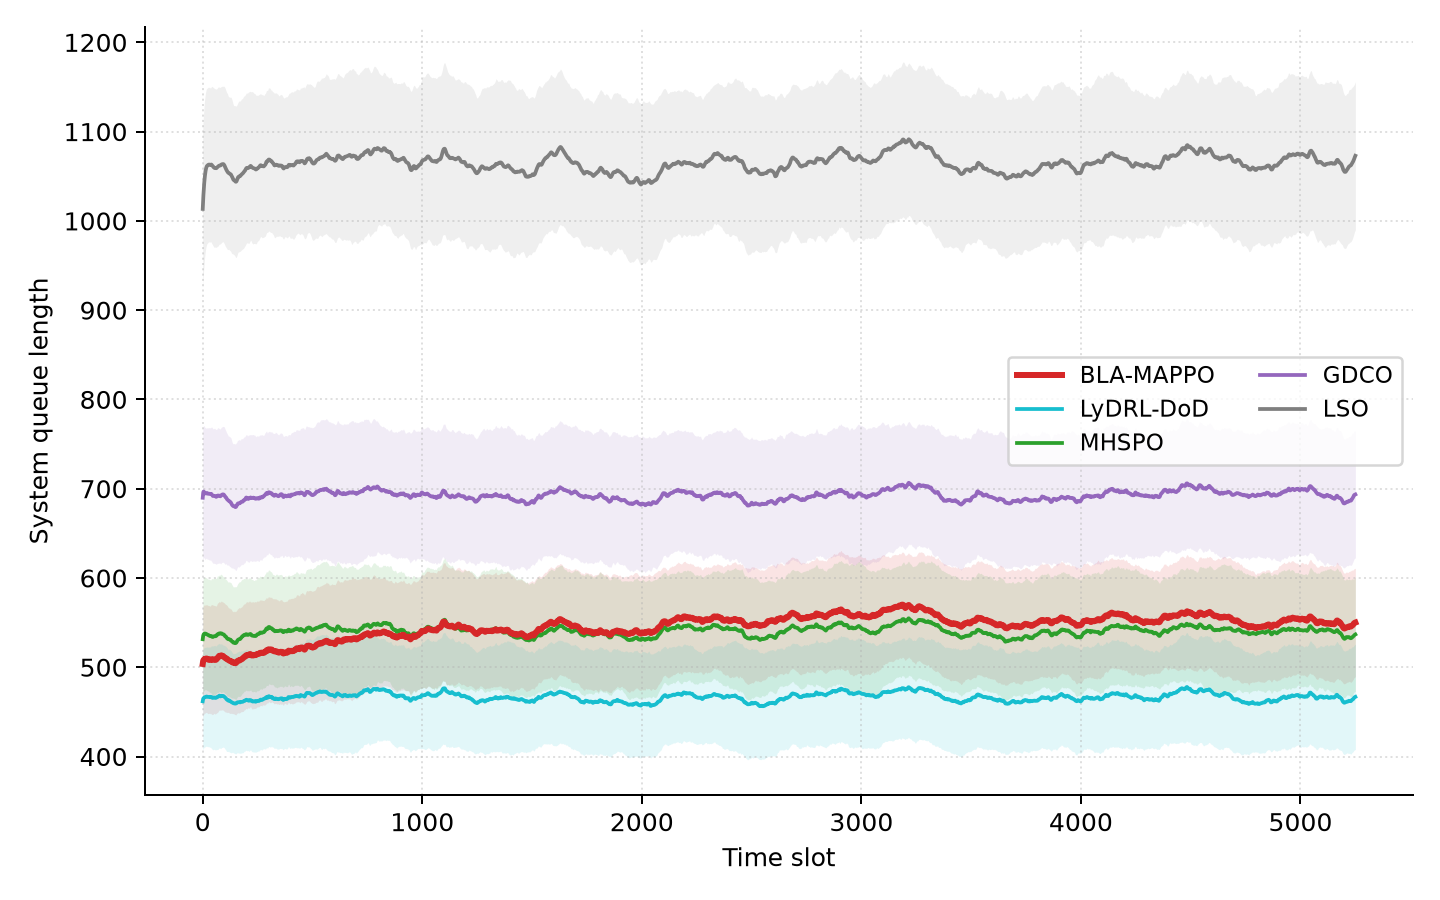
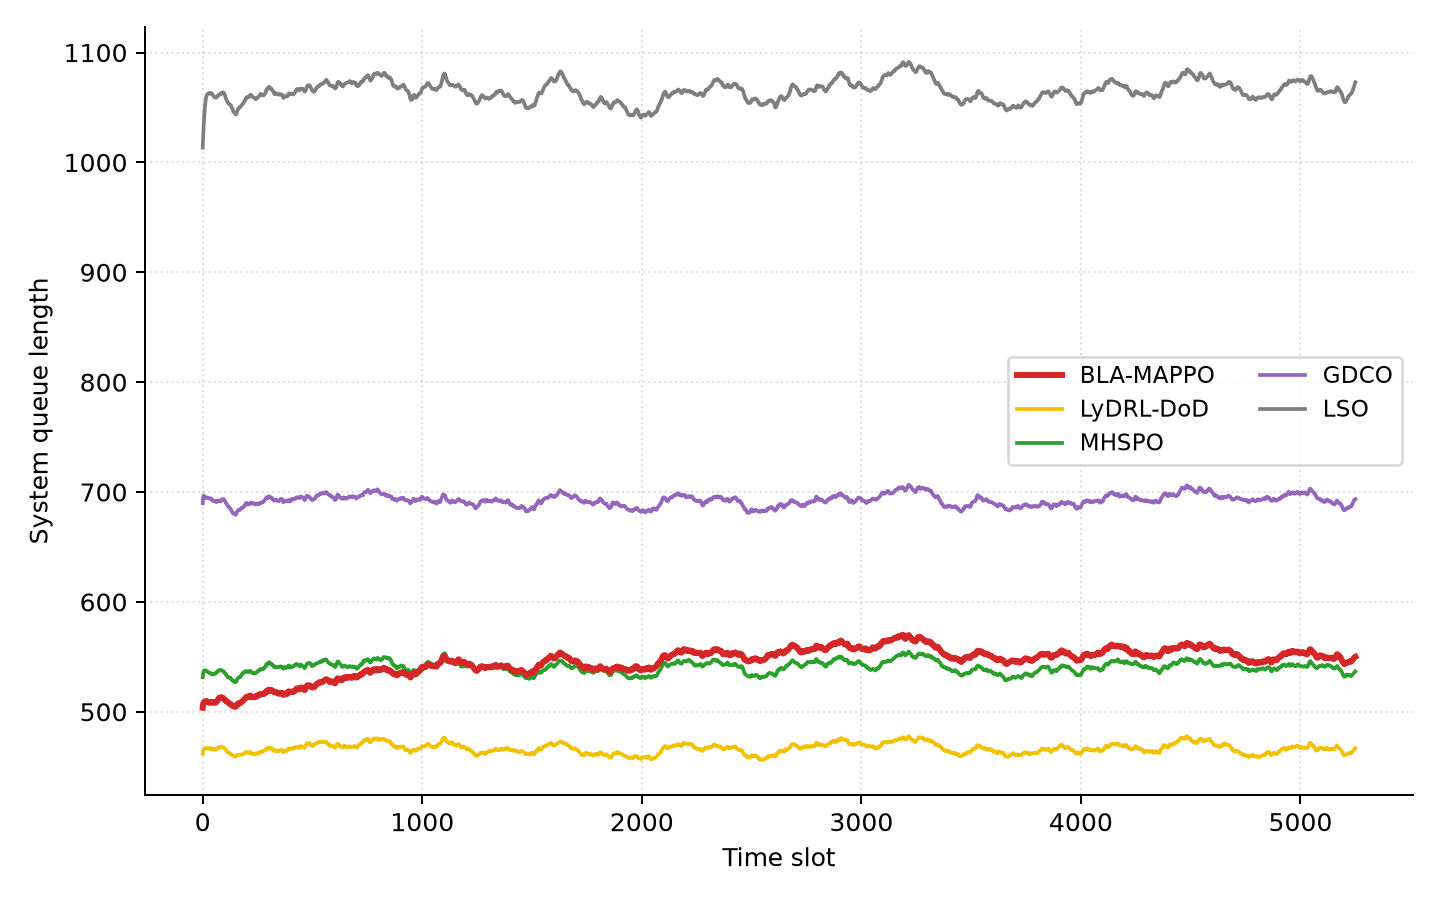
docs: queue n=10 figure — drop std band, LyDRL-DoD line to yellow
Cosmetic only: remove ±std shaded band (ghosting) and recolor the
LyDRL-DoD curve to yellow. Underlying n=10 data unchanged.

Claude-Session: https://claude.ai/code/session_01QqDUyKRCo5D79G2DJexGwi

diff --git a/satellite_mec/eval_queue_n10.py b/satellite_mec/eval_queue_n10.py
@@ -63,8 +63,8 @@ eval_seeds(lya, 'LyaMAPPO')
 # ── plot ──
 ORDER = ['LyaMAPPO', 'MADDPG_DoD', 'MHSPO', 'GDCO', 'LocalOnly']
 DISP = {'LyaMAPPO': 'BLA-MAPPO', 'MADDPG_DoD': 'LyDRL-DoD', 'LocalOnly': 'LSO'}
-COLOR = {'LyaMAPPO': '#d62728', 'MADDPG_DoD': '#17becf', 'MHSPO': '#2ca02c',
-         'GDCO': '#9467bd', 'LocalOnly': '#7f7f7f'}
+COLOR = {'LyaMAPPO': '#d62728', 'MADDPG_DoD': '#F2C200', 'MHSPO': '#2ca02c',
+         'GDCO': '#9467bd', 'LocalOnly': '#7f7f7f'}          # LyDRL-DoD = 黄色
 
 
 def smooth(a, w=150):
@@ -76,11 +76,9 @@ for p in ORDER:
     if p not in data:
         continue
     m = smooth(np.asarray(data[p]['q_mean']) * NSAT)
-    s = smooth(np.asarray(data[p]['q_std']) * NSAT)
     x = np.arange(len(m)); big = (p == 'LyaMAPPO')
     ax.plot(x, m, color=COLOR[p], lw=2.4 if big else 1.5, label=DISP.get(p, p),
             zorder=3 if big else 2)
-    ax.fill_between(x, m - s, m + s, color=COLOR[p], alpha=0.12, lw=0)
 ax.set_xlabel('Time slot'); ax.set_ylabel('System queue length')
 ax.legend(fontsize=9, ncol=2); ax.grid(True, ls=':', alpha=0.4)
 for sp in ('top', 'right'):
